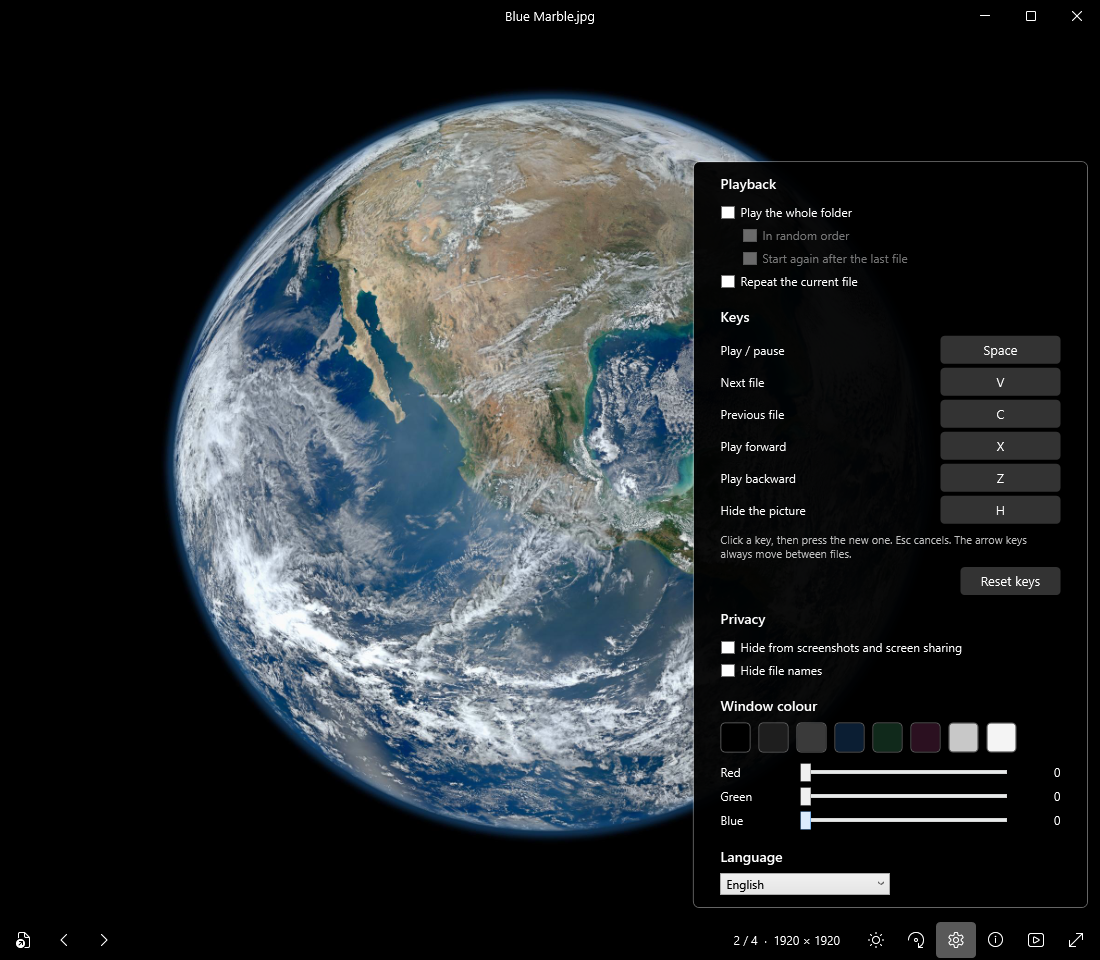
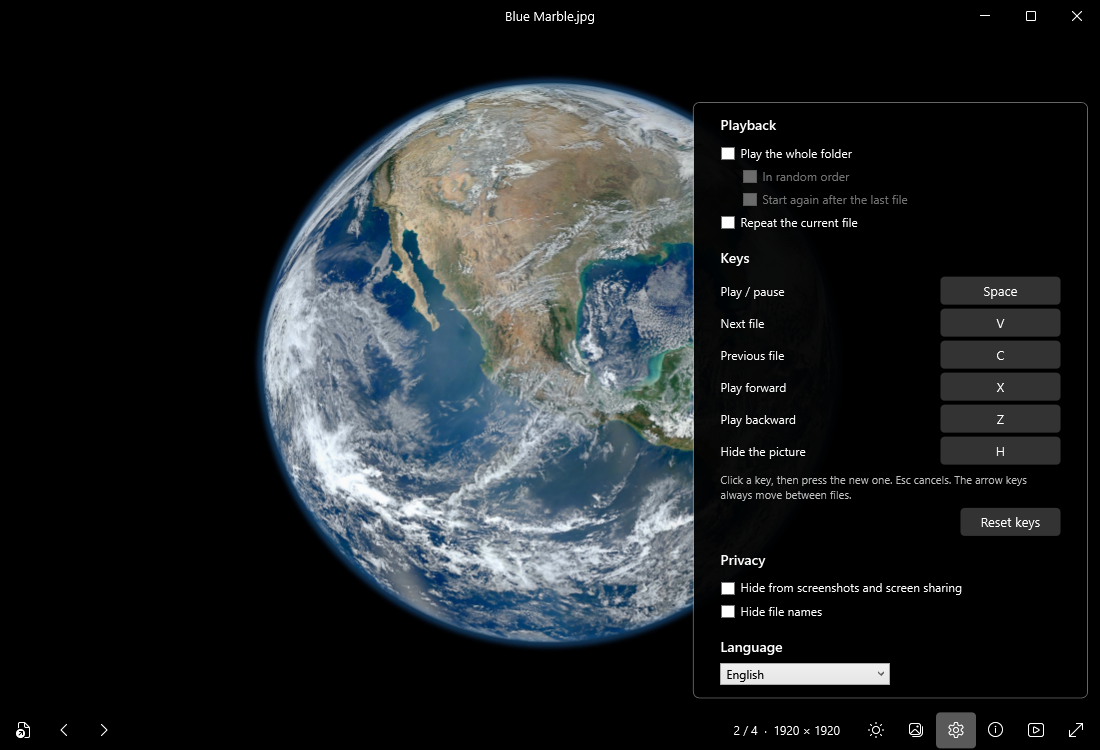
Move window colour to the rotate menu, now called View

diff --git a/docs/es/index.html b/docs/es/index.html
@@ -124,7 +124,7 @@
       <div class="card"><h3>Imágenes, GIF y vídeo juntos</h3><p>Abre un archivo y recorre todo lo demás de la carpeta con las flechas. Amplía con la rueda del ratón, arrastra para desplazarte, gira y voltea.</p></div>
       <div class="card"><h3>Privado también en pantalla</h3><p>Haz que Windows deje la ventana fuera de capturas, grabaciones y pantalla compartida, que muestran entonces lo que hay detrás. Oculta los nombres de archivo de la barra de título y la barra de tareas. Pulsa <kbd>H</kbd> para dejar la ventana en blanco al instante.</p></div>
       <div class="card"><h3>Ajustes de imagen</h3><p>Brillo, contraste, saturación, gamma y calidez para cualquier cosa en pantalla, incluido el vídeo en pausa. Solo afecta a la visualización: tus archivos nunca se modifican.</p></div>
-      <div class="card"><h3>Tus teclas, tu color</h3><p>Elige las teclas para reproducir, siguiente, anterior y avance por fotogramas, y el color de la ventana. El texto cambia entre blanco y negro para seguir siendo legible.</p></div>
+      <div class="card"><h3>Tus teclas, tu color</h3><p>Elige en Opciones las teclas para reproducir, siguiente, anterior y avance por fotogramas, y en el menú Vista el color de la ventana. El texto cambia entre blanco y negro para seguir siendo legible.</p></div>
       <div class="card"><h3>Reproducir toda una carpeta</h3><p>Deja que pase al archivo siguiente cuando termine un vídeo, en orden o al azar, una vez o en bucle. O repite un solo vídeo.</p></div>
     </div>
   </section>
@@ -135,8 +135,8 @@
       <figcaption>Los ajustes de imagen se aplican al instante y se restablecen con un clic.</figcaption>
     </figure>
     <figure>
-      <img class="shot" src="../img/options.png" width="1100" height="960" alt="El panel Opciones con la reproducción, la asignación de teclas y el color de la ventana">
-      <figcaption>Opciones: reproducción, teclas y color de la ventana.</figcaption>
+      <img class="shot" src="../img/options.png" width="1100" height="750" alt="El panel Opciones con la reproducción, la asignación de teclas, la privacidad y el idioma">
+      <figcaption>Opciones: reproducción, teclas, privacidad e idioma.</figcaption>
     </figure>
     <p class="shotnote">Las capturas muestran la aplicación en inglés; también está disponible en español.</p>
   </section>

diff --git a/docs/sv/index.html b/docs/sv/index.html
@@ -124,7 +124,7 @@
       <div class="card"><h3>Bilder, GIF:ar och video tillsammans</h3><p>Öppna en fil och bläddra genom allt annat i mappen med piltangenterna. Zooma med mushjulet, dra för att panorera, rotera och spegla.</p></div>
       <div class="card"><h3>Privat även på skärmen</h3><p>Låt Windows hålla fönstret utanför skärmbilder, inspelningar och skärmdelning, som då visar det som finns bakom. Dölj filnamn i namnlisten och aktivitetsfältet. Tryck på <kbd>H</kbd> för att tömma fönstret direkt.</p></div>
       <div class="card"><h3>Bildreglage</h3><p>Ljusstyrka, kontrast, mättnad, gamma och värme för allt på skärmen, även pausad video. Påverkar bara visningen: dina filer ändras aldrig.</p></div>
-      <div class="card"><h3>Dina tangenter, din färg</h3><p>Välj tangenter för spela, nästa, föregående och bildrutestegning, och välj fönstrets färg. Texten växlar mellan vitt och svart för att förbli läsbar.</p></div>
+      <div class="card"><h3>Dina tangenter, din färg</h3><p>Välj tangenter för spela, nästa, föregående och bildrutestegning under Alternativ, och fönstrets färg i menyn Vy. Texten växlar mellan vitt och svart för att förbli läsbar.</p></div>
       <div class="card"><h3>Spela en hel mapp</h3><p>Låt den gå vidare till nästa fil när en video tar slut, i ordning eller blandat, en gång eller om och om igen. Eller upprepa en enda video.</p></div>
     </div>
   </section>
@@ -135,8 +135,8 @@
       <figcaption>Bildreglagen verkar direkt och återställs med ett klick.</figcaption>
     </figure>
     <figure>
-      <img class="shot" src="../img/options.png" width="1100" height="960" alt="Panelen Alternativ med uppspelningsval, tangenttilldelning och fönsterfärg">
-      <figcaption>Alternativ: uppspelning, tangenter och fönsterfärg.</figcaption>
+      <img class="shot" src="../img/options.png" width="1100" height="750" alt="Panelen Alternativ med uppspelningsval, tangenttilldelning, integritetsval och språk">
+      <figcaption>Alternativ: uppspelning, tangenter, integritet och språk.</figcaption>
     </figure>
     <p class="shotnote">Skärmbilderna visar appen på engelska; den finns också på svenska.</p>
   </section>

diff --git a/docs/index.html b/docs/index.html
@@ -124,7 +124,7 @@
       <div class="card"><h3>Pictures, GIFs and video together</h3><p>Open one file and move through everything else in the folder with the arrow keys. Zoom with the mouse wheel, drag to pan, rotate and flip.</p></div>
       <div class="card"><h3>Private on screen too</h3><p>Have Windows leave the window out of screenshots, recordings and screen sharing, which then show whatever is behind it. Hide file names from the title bar and taskbar. Press <kbd>H</kbd> to blank the window at once.</p></div>
       <div class="card"><h3>Picture controls</h3><p>Brightness, contrast, saturation, gamma and warmth for anything on screen, including paused video. Display only: your files are never changed.</p></div>
-      <div class="card"><h3>Your keys, your colour</h3><p>Choose the keys for play, next, previous and frame stepping, and pick the window colour. Text switches between white and black to stay readable.</p></div>
+      <div class="card"><h3>Your keys, your colour</h3><p>Choose the keys for play, next, previous and frame stepping in Options, and pick the window colour in the View menu. Text switches between white and black to stay readable.</p></div>
       <div class="card"><h3>Play a whole folder</h3><p>Let it move to the next file when a video ends, in order or shuffled, once or on repeat. Or repeat a single video.</p></div>
     </div>
   </section>
@@ -135,8 +135,8 @@
       <figcaption>Picture controls apply instantly and reset with one click.</figcaption>
     </figure>
     <figure>
-      <img class="shot" src="img/options.png" width="1100" height="960" alt="The Options panel with playback choices, key assignments and window colour">
-      <figcaption>Options: playback, keys and window colour.</figcaption>
+      <img class="shot" src="img/options.png" width="1100" height="750" alt="The Options panel with playback choices, key assignments, privacy options and language">
+      <figcaption>Options: playback, keys, privacy and language.</figcaption>
     </figure>
     <p class="shotnote"></p>
   </section>

diff --git a/MainWindow.xaml b/MainWindow.xaml
@@ -132,7 +132,7 @@
 
             <StackPanel Grid.Column="3" Orientation="Horizontal" Margin="4,2">
                 <Button x:Name="AdjustButton" Content="&#xE706;" ToolTip="Picture settings (A)" Click="OnAdjustClick"/>
-                <Button x:Name="RotateButton" Content="&#xE7AD;" ToolTip="Rotate and flip (R rotates)" Click="OnRotateClick"/>
+                <Button x:Name="ViewButton" Content="&#xE8B9;" ToolTip="View (R rotates)" Click="OnViewClick"/>
                 <Button x:Name="OptionsButton" Content="&#xE713;" ToolTip="Options" Click="OnOptionsClick"/>
                 <Button x:Name="FormatsButton" Content="&#xE946;" ToolTip="Formats and credits (F1)" Click="OnFormatsClick"/>
                 <Button x:Name="FolderButton" Content="&#xE786;" ToolTip="Play the whole folder (S)" Click="OnSlideshowClick"/>

diff --git a/tools/site_template.html b/tools/site_template.html
@@ -133,7 +133,7 @@
       <figcaption>{{shot.picture.cap}}</figcaption>
     </figure>
     <figure>
-      <img class="shot" src="{{up}}img/options.png" width="1100" height="960" alt="{{shot.options.alt}}">
+      <img class="shot" src="{{up}}img/options.png" width="1100" height="750" alt="{{shot.options.alt}}">
       <figcaption>{{shot.options.cap}}</figcaption>
     </figure>
     <p class="shotnote">{{shot.note}}</p>

diff --git a/MainWindow.Panels.cs b/MainWindow.Panels.cs
@@ -8,14 +8,14 @@ using System.Windows.Threading;
 
 namespace ReiksViewer;
 
-// The pop-up panels over the picture (Picture, Rotate, Options) and what they control:
-// picture adjustments, orientation, the user's keys and the window colour.
+// The pop-up panels over the picture (Picture, View, Options) and what they control:
+// picture adjustments, orientation and window colour, and the app's own options.
 public partial class MainWindow
 {
     readonly Settings _settings = Settings.Load();
     readonly DispatcherTimer _saveTimer = new() { Interval = TimeSpan.FromMilliseconds(600) };
     readonly List<Border> _panels = new();
-    Border? _adjustPanel, _rotatePanel, _optionsPanel;
+    Border? _adjustPanel, _viewPanel, _optionsPanel;
 
     // ---------- Window colour ----------
 
@@ -98,7 +98,7 @@ public partial class MainWindow
         static bool Open(Border? panel) => panel?.Visibility == Visibility.Visible;
 
         Mark(AdjustButton, Open(_adjustPanel));
-        Mark(RotateButton, Open(_rotatePanel));
+        Mark(ViewButton, Open(_viewPanel));
         Mark(OptionsButton, Open(_optionsPanel));
         Mark(FolderButton, _settings.PlayFolder && !_settings.RepeatFile);
         Mark(MuteButton, _muted);
@@ -256,18 +256,26 @@ public partial class MainWindow
         return slider;
     }
 
-    // ---------- Rotate panel ----------
+    // ---------- View panel: rotate, flip and window colour ----------
 
     // The orientation the file itself asks for (phone videos); Reset returns to it.
     double _baseRotation;
 
-    void ToggleRotatePanel() => TogglePanel(ref _rotatePanel, BuildRotatePanel);
-
-    Border BuildRotatePanel()
+    static readonly string[] ColorPresets =
     {
-        var panel = CreatePanel(L.T("panel.rotate"), out var rows, 280);
+        "#000000", "#1E1E1E", "#3A3A3A", "#0B1E33", "#10291B", "#2B1020", "#C8C8C8", "#F4F4F4",
+    };
+
+    readonly Slider[] _colorSliders = new Slider[3];
+    bool _syncingColor;
+
+    void ToggleViewPanel() => TogglePanel(ref _viewPanel, BuildViewPanel);
+
+    Border BuildViewPanel()
+    {
+        var panel = CreatePanel(L.T("panel.rotate"), out var rows, 310);
         rows.Width = double.NaN;
-        rows.MinWidth = 280;
+        rows.MinWidth = 310;
         rows.Children.Add(ButtonRow(TextButton(L.T("rot.left"), () => RotateBy(-90)),
                                     TextButton(L.T("rot.right"), () => RotateBy(90))));
         rows.Children.Add(ButtonRow(TextButton(L.T("flip.h"), () => FlipBy(-1, 1)),
@@ -277,6 +285,33 @@ public partial class MainWindow
         reset.MinWidth = 80;
         reset.Margin = new Thickness(0, 8, 6, 0);
         rows.Children.Add(reset);
+
+        rows.Children.Add(Heading(L.T("panel.colour")));
+        var swatches = new WrapPanel();
+        foreach (var preset in ColorPresets)
+        {
+            var color = ParseColor(preset);
+            var swatch = new Border
+            {
+                Width = 30,
+                Height = 30,
+                Margin = new Thickness(0, 0, 8, 8),
+                CornerRadius = new CornerRadius(4),
+                BorderThickness = new Thickness(1),
+                Background = Frozen(color),
+                Cursor = Cursors.Hand,
+                ToolTip = preset,
+            };
+            swatch.SetResourceReference(Border.BorderBrushProperty, "PanelBorderBrush");
+            swatch.MouseLeftButtonDown += (_, _) => SetWindowColor(color);
+            swatches.Children.Add(swatch);
+        }
+        rows.Children.Add(swatches);
+
+        var current = ParseColor(_settings.WindowColor);
+        _colorSliders[0] = AddSlider(rows, L.T("col.red"), 0, 255, current.R, v => $"{v:0}", _ => ColorSliderMoved());
+        _colorSliders[1] = AddSlider(rows, L.T("col.green"), 0, 255, current.G, v => $"{v:0}", _ => ColorSliderMoved());
+        _colorSliders[2] = AddSlider(rows, L.T("col.blue"), 0, 255, current.B, v => $"{v:0}", _ => ColorSliderMoved());
         return panel;
     }
 
@@ -308,7 +343,7 @@ public partial class MainWindow
         UpdateStatus();
     }
 
-    // ---------- Options panel: keys and window colour ----------
+    // ---------- Options panel: playback, keys, privacy and language ----------
 
     static readonly (KeyAction Action, string Name)[] KeyActions =
     {
@@ -320,15 +355,9 @@ public partial class MainWindow
         (KeyAction.QuickHide, "key.hide"),
     };
 
-    static readonly string[] ColorPresets =
-    {
-        "#000000", "#1E1E1E", "#3A3A3A", "#0B1E33", "#10291B", "#2B1020", "#C8C8C8", "#F4F4F4",
-    };
-
     readonly Dictionary<KeyAction, Button> _keyButtons = new();
-    readonly Slider[] _colorSliders = new Slider[3];
     KeyAction? _capturing;
-    bool _syncingColor, _shuffleStarted;
+    bool _shuffleStarted;
 
     void ToggleOptionsPanel() => TogglePanel(ref _optionsPanel, BuildOptionsPanel);
 
@@ -399,33 +428,6 @@ public partial class MainWindow
             UpdateStatus();
         }, L.T("priv.names.tip", L.T("app.name"))));
 
-        rows.Children.Add(Heading(L.T("panel.colour")));
-        var swatches = new WrapPanel();
-        foreach (var preset in ColorPresets)
-        {
-            var color = ParseColor(preset);
-            var swatch = new Border
-            {
-                Width = 30,
-                Height = 30,
-                Margin = new Thickness(0, 0, 8, 8),
-                CornerRadius = new CornerRadius(4),
-                BorderThickness = new Thickness(1),
-                Background = Frozen(color),
-                Cursor = Cursors.Hand,
-                ToolTip = preset,
-            };
-            swatch.SetResourceReference(Border.BorderBrushProperty, "PanelBorderBrush");
-            swatch.MouseLeftButtonDown += (_, _) => SetWindowColor(color);
-            swatches.Children.Add(swatch);
-        }
-        rows.Children.Add(swatches);
-
-        var current = ParseColor(_settings.WindowColor);
-        _colorSliders[0] = AddSlider(rows, L.T("col.red"), 0, 255, current.R, v => $"{v:0}", _ => ColorSliderMoved());
-        _colorSliders[1] = AddSlider(rows, L.T("col.green"), 0, 255, current.G, v => $"{v:0}", _ => ColorSliderMoved());
-        _colorSliders[2] = AddSlider(rows, L.T("col.blue"), 0, 255, current.B, v => $"{v:0}", _ => ColorSliderMoved());
-
         rows.Children.Add(Heading(L.T("panel.language")));
         var languages = new ComboBox { Focusable = false, HorizontalAlignment = HorizontalAlignment.Left, MinWidth = 170 };
         languages.Items.Add(new ComboBoxItem { Content = L.T("lang.auto"), Tag = "" });
@@ -454,7 +456,7 @@ public partial class MainWindow
         _panels.Clear();
         _adjustResets.Clear();
         _keyButtons.Clear();
-        _adjustPanel = _rotatePanel = _optionsPanel = null;
+        _adjustPanel = _viewPanel = _optionsPanel = null;
         _playFolderBox = _shuffleBox = _repeatFolderBox = _repeatFileBox = null;
         ApplyLanguage();
         ToggleOptionsPanel();
@@ -466,7 +468,7 @@ public partial class MainWindow
         OpenButton.ToolTip = L.T("tip.open");
         MuteButton.ToolTip = L.T("tip.mute");
         AdjustButton.ToolTip = L.T("tip.picture");
-        RotateButton.ToolTip = L.T("tip.rotate");
+        ViewButton.ToolTip = L.T("tip.view");
         OptionsButton.ToolTip = L.T("tip.options");
         FormatsButton.ToolTip = L.T("tip.formats");
         FolderButton.ToolTip = L.T("tip.folder");

diff --git a/tools/build_site.py b/tools/build_site.py
@@ -90,9 +90,9 @@ T = {
  "Ljusstyrka, kontrast, mättnad, gamma och värme för allt på skärmen, även pausad video. Påverkar bara visningen: dina filer ändras aldrig."),
 "does.5h": ("Your keys, your colour", "Tus teclas, tu color", "Dina tangenter, din färg"),
 "does.5": (
- "Choose the keys for play, next, previous and frame stepping, and pick the window colour. Text switches between white and black to stay readable.",
- "Elige las teclas para reproducir, siguiente, anterior y avance por fotogramas, y el color de la ventana. El texto cambia entre blanco y negro para seguir siendo legible.",
- "Välj tangenter för spela, nästa, föregående och bildrutestegning, och välj fönstrets färg. Texten växlar mellan vitt och svart för att förbli läsbar."),
+ "Choose the keys for play, next, previous and frame stepping in Options, and pick the window colour in the View menu. Text switches between white and black to stay readable.",
+ "Elige en Opciones las teclas para reproducir, siguiente, anterior y avance por fotogramas, y en el menú Vista el color de la ventana. El texto cambia entre blanco y negro para seguir siendo legible.",
+ "Välj tangenter för spela, nästa, föregående och bildrutestegning under Alternativ, och fönstrets färg i menyn Vy. Texten växlar mellan vitt och svart för att förbli läsbar."),
 "does.6h": ("Play a whole folder", "Reproducir toda una carpeta", "Spela en hel mapp"),
 "does.6": (
  "Let it move to the next file when a video ends, in order or shuffled, once or on repeat. Or repeat a single video.",
@@ -105,10 +105,10 @@ T = {
  "Panelen Bild med reglage för ljusstyrka, kontrast, mättnad, gamma och värme"),
 "shot.picture.cap": ("Picture controls apply instantly and reset with one click.", "Los ajustes de imagen se aplican al instante y se restablecen con un clic.", "Bildreglagen verkar direkt och återställs med ett klick."),
 "shot.options.alt": (
- "The Options panel with playback choices, key assignments and window colour",
- "El panel Opciones con la reproducción, la asignación de teclas y el color de la ventana",
- "Panelen Alternativ med uppspelningsval, tangenttilldelning och fönsterfärg"),
-"shot.options.cap": ("Options: playback, keys and window colour.", "Opciones: reproducción, teclas y color de la ventana.", "Alternativ: uppspelning, tangenter och fönsterfärg."),
+ "The Options panel with playback choices, key assignments, privacy options and language",
+ "El panel Opciones con la reproducción, la asignación de teclas, la privacidad y el idioma",
+ "Panelen Alternativ med uppspelningsval, tangenttilldelning, integritetsval och språk"),
+"shot.options.cap": ("Options: playback, keys, privacy and language.", "Opciones: reproducción, teclas, privacidad e idioma.", "Alternativ: uppspelning, tangenter, integritet och språk."),
 "shot.note": ("", "Las capturas muestran la aplicación en inglés; también está disponible en español.", "Skärmbilderna visar appen på engelska; den finns också på svenska."),
 
 "formats.h": ("Formats", "Formatos", "Format"),

diff --git a/lang/make_languages.py b/lang/make_languages.py
@@ -25,7 +25,7 @@ T = {
 "tip.forward": ["Play forward ({0})", "Reproducir hacia delante ({0})", "Spela framåt ({0})", "Lecture avant ({0})", "Vorwärts abspielen ({0})", "Reproduzir para a frente ({0})", "Riproduci in avanti ({0})"],
 "tip.mute": ["Mute (M)", "Silenciar (M)", "Ljud av (M)", "Muet (M)", "Stumm (M)", "Silenciar (M)", "Muto (M)"],
 "tip.picture": ["Picture settings (A)", "Ajustes de imagen (A)", "Bildinställningar (A)", "Réglages de l'image (A)", "Bildeinstellungen (A)", "Ajustes de imagem (A)", "Regolazioni immagine (A)"],
-"tip.rotate": ["Rotate and flip (R rotates)", "Girar y voltear (R gira)", "Rotera och spegla (R roterar)", "Pivoter et retourner (R pivote)", "Drehen und spiegeln (R dreht)", "Rodar e inverter (R roda)", "Ruota e capovolgi (R ruota)"],
+"tip.view": ["View (R rotates)", "Vista (R gira)", "Vy (R roterar)", "Affichage (R pivote)", "Ansicht (R dreht)", "Vista (R roda)", "Vista (R ruota)"],
 "tip.options": ["Options", "Opciones", "Alternativ", "Options", "Optionen", "Opções", "Opzioni"],
 "tip.formats": ["Formats and credits (F1)", "Formatos y créditos (F1)", "Format och tack (F1)", "Formats et crédits (F1)", "Formate und Danksagungen (F1)", "Formatos e créditos (F1)", "Formati e riconoscimenti (F1)"],
 "tip.folder": ["Play the whole folder (S)", "Reproducir toda la carpeta (S)", "Spela hela mappen (S)", "Lire tout le dossier (S)", "Ganzen Ordner abspielen (S)", "Reproduzir a pasta inteira (S)", "Riproduci tutta la cartella (S)"],

diff --git a/MainWindow.SelfTest.cs b/MainWindow.SelfTest.cs
@@ -58,7 +58,7 @@ public partial class MainWindow
             log.Add($"adjust reset: effect on={Img.Effect != null}");
             ToggleAdjustPanel();
 
-            ToggleRotatePanel();
+            ToggleViewPanel();
             RotateBy(90);
             FlipBy(-1, 1);
             await Task.Delay(300);
@@ -179,7 +179,7 @@ public partial class MainWindow
         Close();
     }
 
-    // "ReiksViewer.exe --screenshot <file> <png> <seconds> <none|picture|rotate|options>" opens a file,
+    // "ReiksViewer.exe --screenshot <file> <png> <seconds> <none|picture|view|options|hide>" opens a file,
     // pauses a video at the given time, optionally opens a panel, and saves a picture of the window.
     async Task RunScreenshot(string file, string output, double seconds, string panel)
     {
@@ -208,12 +208,8 @@ public partial class MainWindow
                 sliders[2].Value = 140;  // saturation
                 sliders[4].Value = 25;   // warmth
             }
-            else if (panel == "rotate") ToggleRotatePanel();
-            else if (panel == "options")
-            {
-                Height = 960;
-                ToggleOptionsPanel();
-            }
+            else if (panel == "view") ToggleViewPanel();
+            else if (panel == "options") ToggleOptionsPanel();
             else if (panel == "hide") ToggleQuickHide();
             await Task.Delay(500);
             Snapshot(output);

diff --git a/MainWindow.xaml.cs b/MainWindow.xaml.cs
@@ -707,7 +707,7 @@ public partial class MainWindow : Window
         new FormatsWindow(this, ImageExtensions, VideoExtensions).ShowDialog();
         FormatsButton.Tag = null;
     }
-    void OnRotateClick(object sender, RoutedEventArgs e) => ToggleRotatePanel();
+    void OnViewClick(object sender, RoutedEventArgs e) => ToggleViewPanel();
     void OnOptionsClick(object sender, RoutedEventArgs e) => ToggleOptionsPanel();
     void OnSlideshowClick(object sender, RoutedEventArgs e) => ToggleSlideshow();
     void OnFullscreenClick(object sender, RoutedEventArgs e) => ToggleFullscreen();

diff --git a/release-notes/v1.2.0.md b/release-notes/v1.2.0.md
@@ -20,6 +20,10 @@ Changing the language sets the picture adjustments (brightness, contrast and so 
 
 Not every translation has been checked by a native speaker yet. Spotted a wrong or awkward translation? Please open an issue; all the texts are in one small file.
 
+## Changed
+
+- **Window colour has moved** from Options to the menu with rotate and flip, which is now called View and has a new icon. Options keeps what belongs to the app itself: playback, keys, privacy and language.
+
 ## Fixed
 
 - **Jumping backwards in some `.ts` and `.m2ts` videos could leave the player stuck.** It happened in transport streams with very few keyframes. The player now goes back until it finds one.
